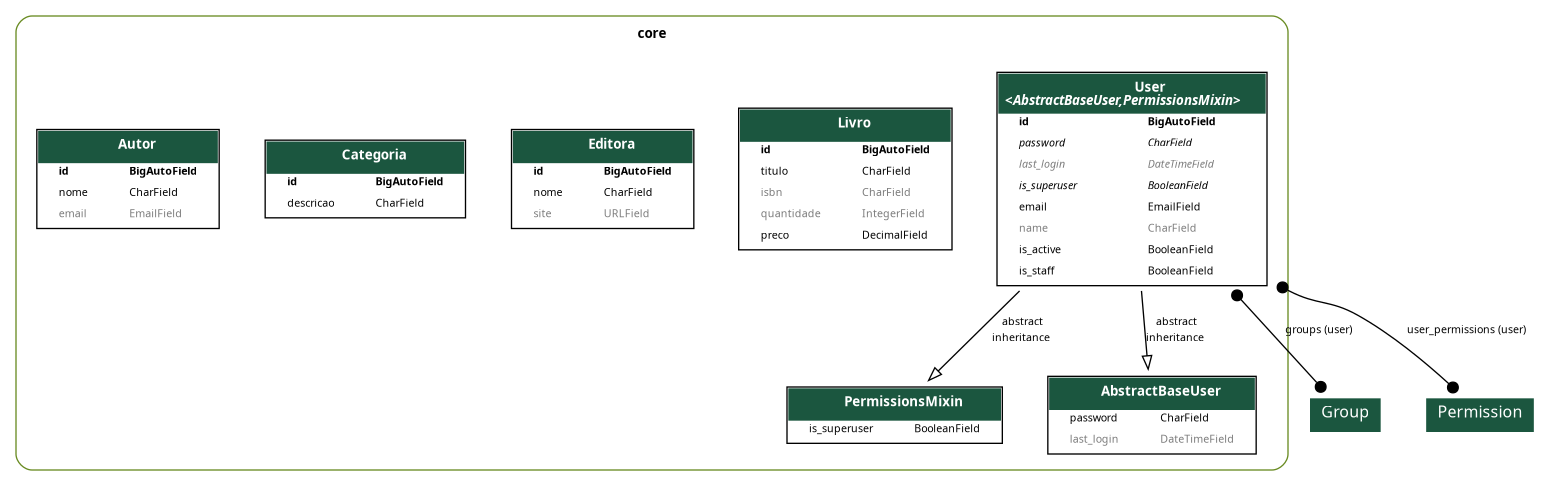
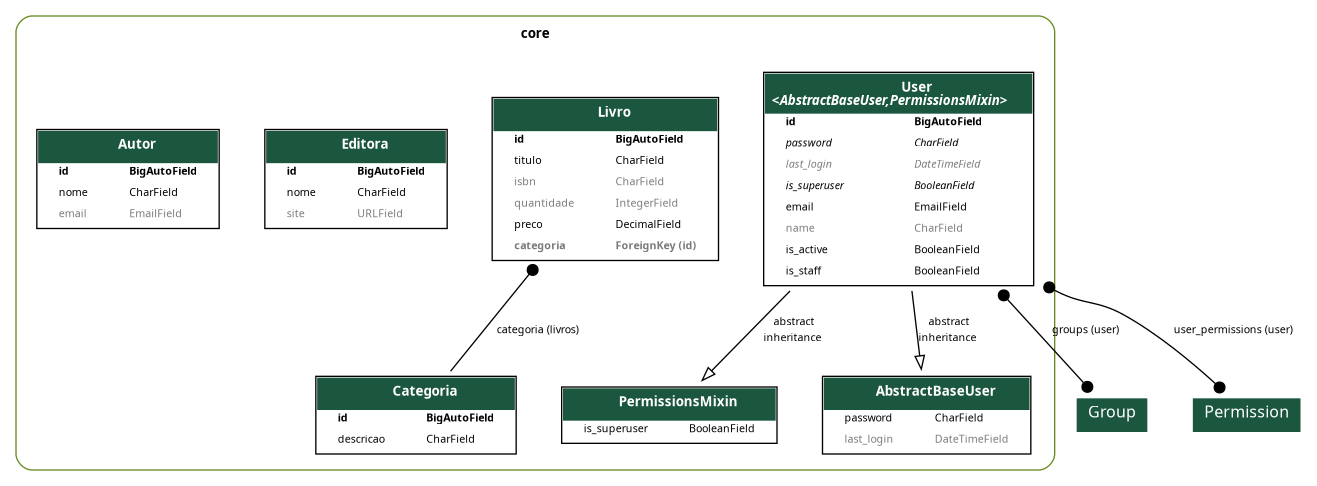
feat: criado relacionamento entre Livro e Categoria

diff --git a/core/models/livro.py b/core/models/livro.py
@@ -1,11 +1,14 @@
 from django.db import models
 
+from .categoria import Categoria
+
 
 class Livro(models.Model):
     titulo = models.CharField(max_length=255)
     isbn = models.CharField(max_length=32, null=True, blank=True)
     quantidade = models.IntegerField(default=0, null=True, blank=True)
     preco = models.DecimalField(max_digits=7, decimal_places=2, default=0)
+    categoria = models.ForeignKey(Categoria, on_delete=models.PROTECT, related_name='livros', null=True, blank=True)
 
     def __str__(self):
         return f'({self.id}) {self.titulo} ({self.quantidade})'

diff --git a/core/migrations/0007_livro_categoria.py b/core/migrations/0007_livro_categoria.py
@@ -1,0 +1,19 @@
+# Generated by Django 5.2.12 on 2026-03-17 17:33
+
+import django.db.models.deletion
+from django.db import migrations, models
+
+
+class Migration(migrations.Migration):
+
+    dependencies = [
+        ('core', '0006_autor_categoria_editora_livro'),
+    ]
+
+    operations = [
+        migrations.AddField(
+            model_name='livro',
+            name='categoria',
+            field=models.ForeignKey(blank=True, null=True, on_delete=django.db.models.deletion.PROTECT, related_name='livros', to='core.categoria'),
+        ),
+    ]
